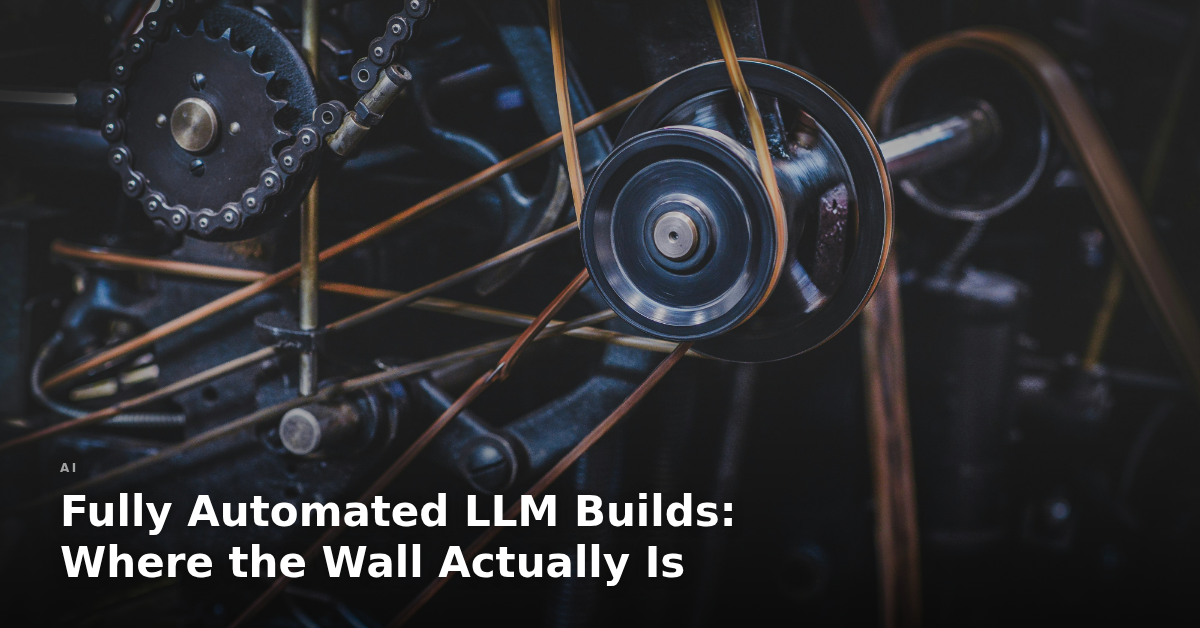
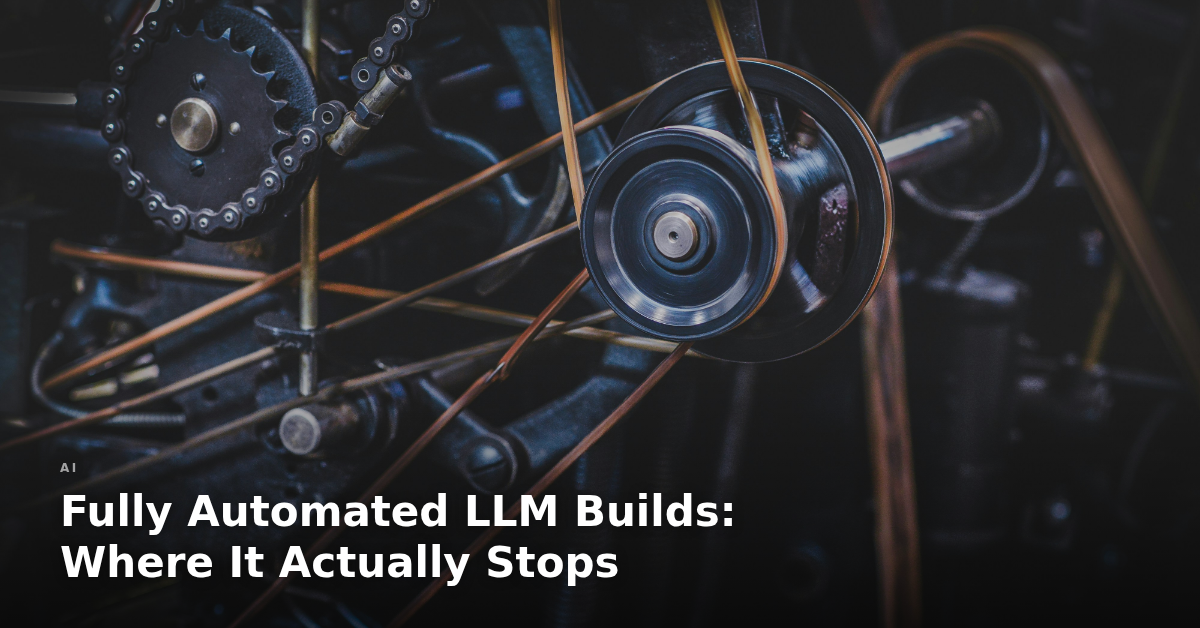
content: reframe title and description around 'stops' (#7)

Changed region(s): [[0.185, 0.8471, 0.5858, 0.9379]]

diff --git a/_posts/2026-04-17-automated-builds-cost-fatigue-ceiling.md b/_posts/2026-04-17-automated-builds-cost-fatigue-ceiling.md
@@ -1,9 +1,9 @@
 ---
 layout: post
-title: "Fully Automated LLM Builds: Where the Wall Actually Is"
+title: "Fully Automated LLM Builds: Where It Actually Stops"
 date: 2026-04-17
 categories: ai development automation
-description: "LLM-driven builds mostly work. The ceiling is not code quality. It is token cost, reviewer fatigue, and the gap between local and frontier models."
+description: "Automated LLM-driven builds mostly work. What stops you at scale: costs, reviewer/developer fatigue, and models that are not intelligent enough."
 keywords: "automated builds, LLM code review, Claude Opus 4.6, local LLM, Qwen3 Coder, Gemma, developer fatigue, token cost, AI code automation"
 image: /assets/images/automated-builds-cost-fatigue-ceiling-blog.png
 ---
